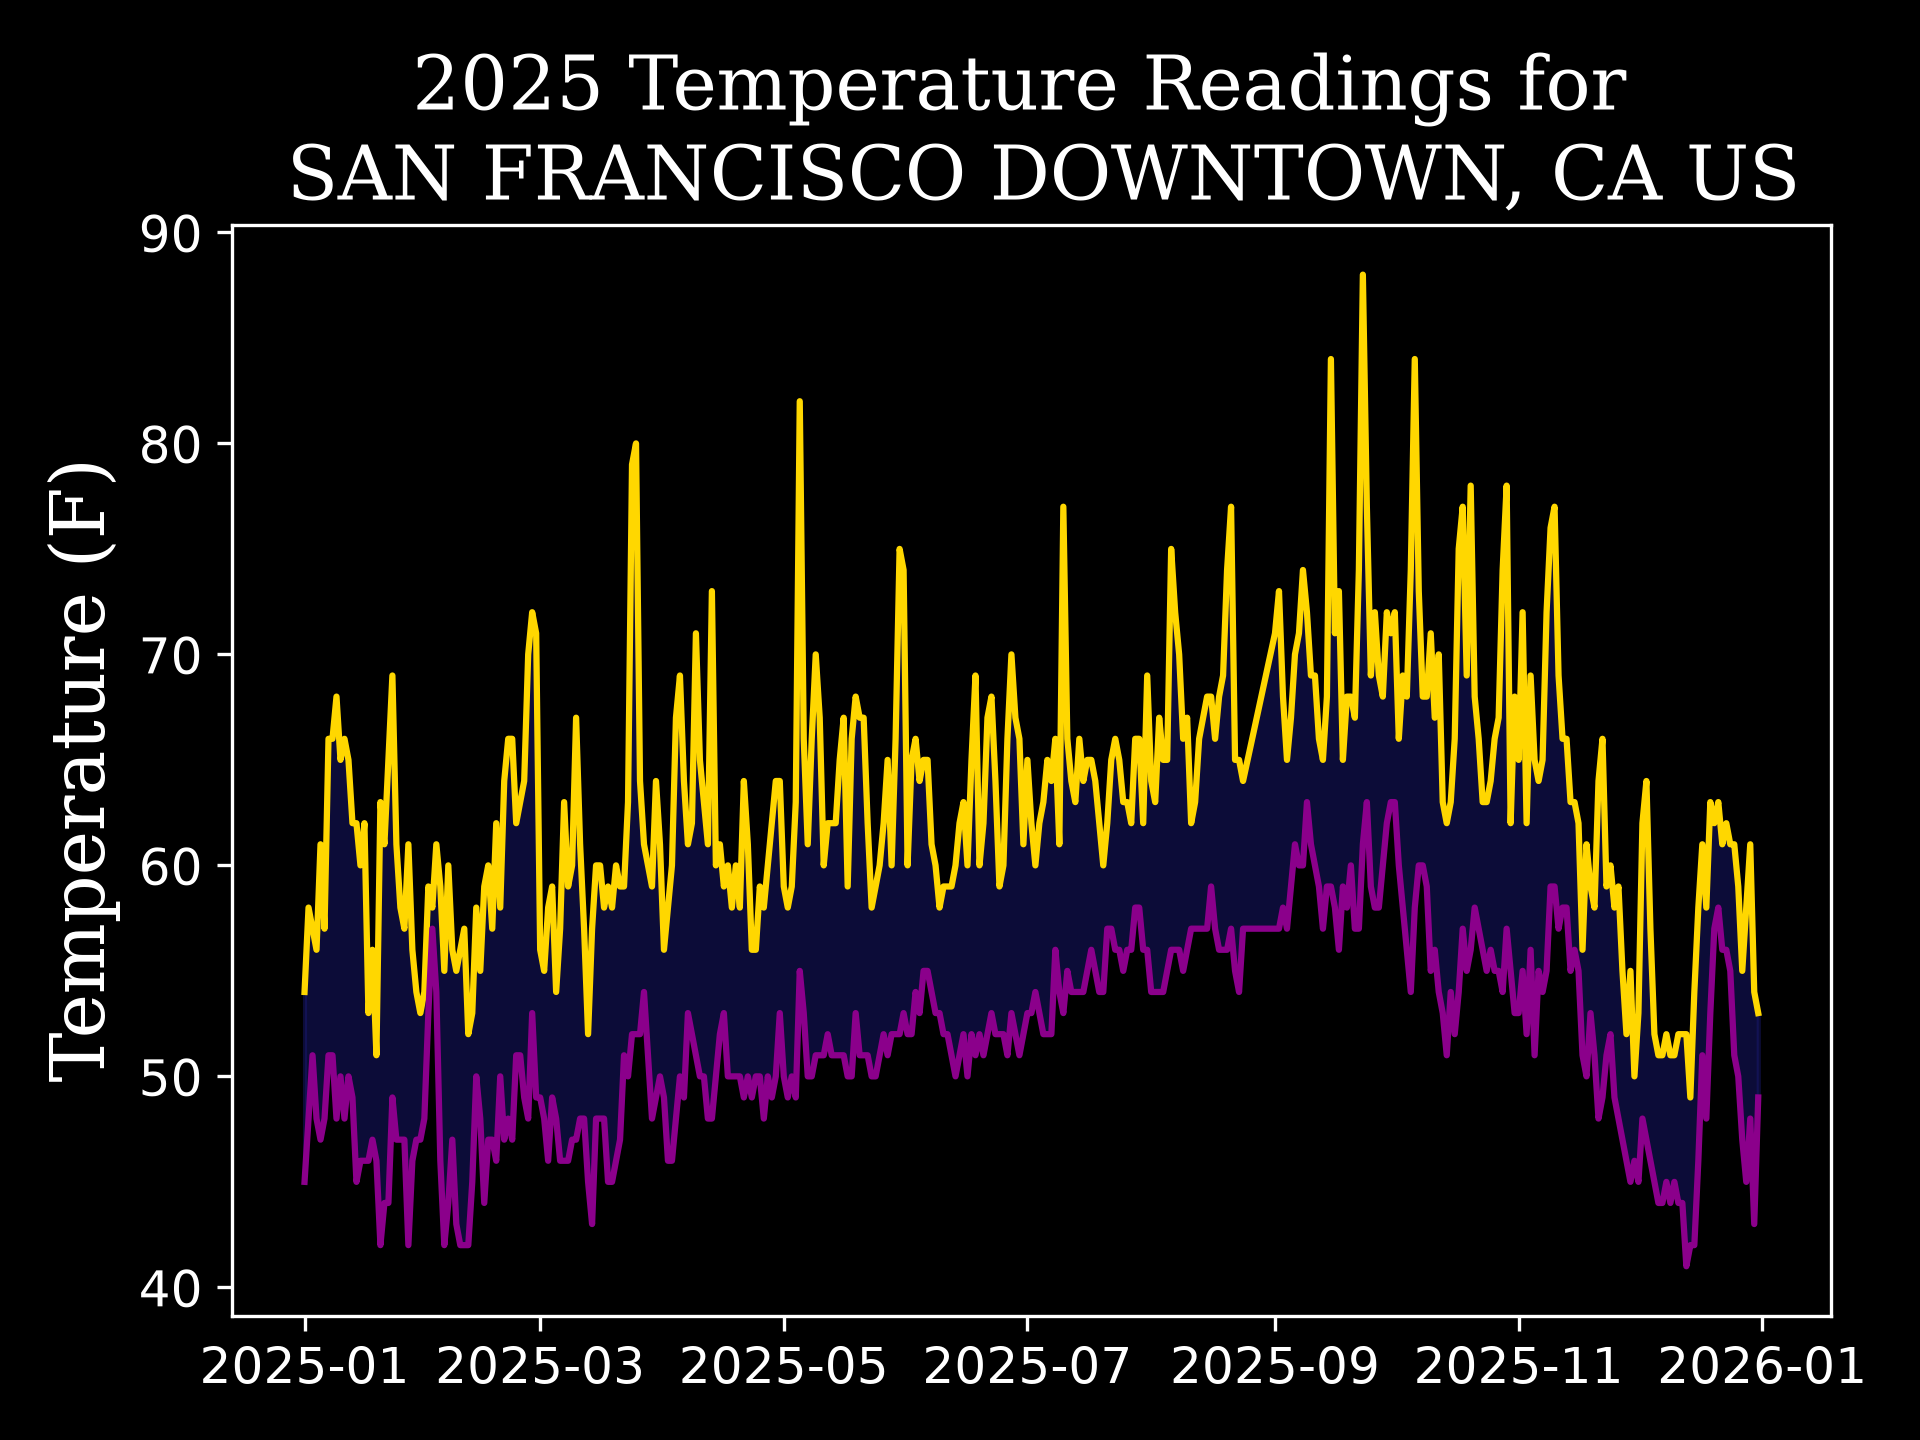
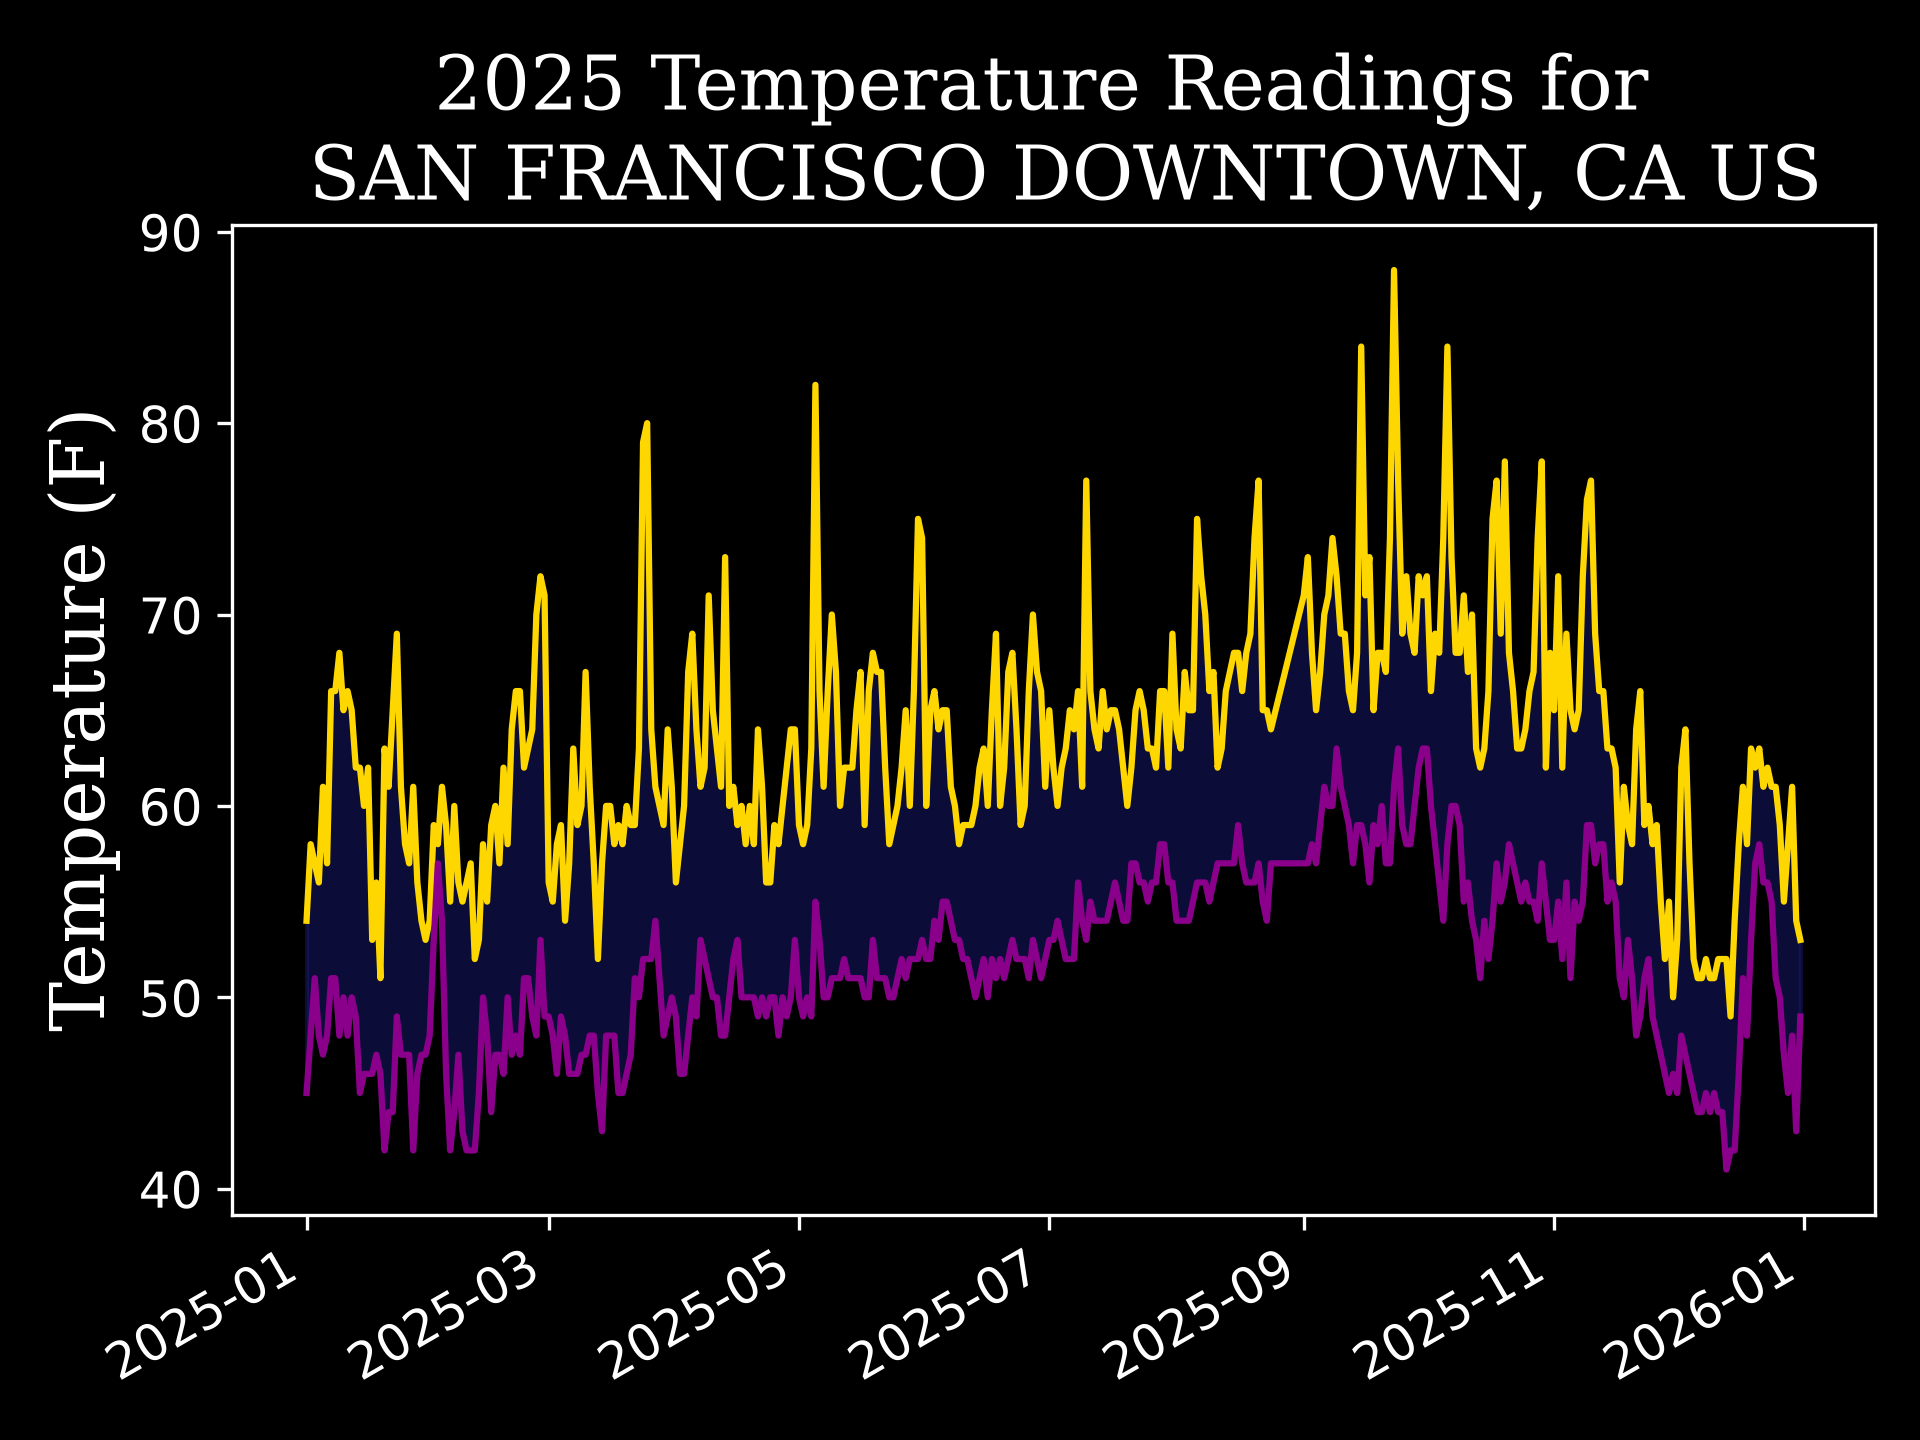
Get indices of items in a list

diff --git a/experimental.py b/experimental.py
@@ -1,0 +1,7 @@
+header = ['STATION', 'NAME', 'LATITUDE', 'LONGITUDE', 'ELEVATION',
+          'DATE', 'PRCP', 'SNWD', 'TMAX', 'TMIN', 'TOBS', 'WT01']
+print(header.index('TMAX')) # First occurrence
+
+nums = [12, 25, 12, 44, 33, 12, 56]
+indices = [i for i, x in enumerate(nums) if x==12] # All instances
+print(indices)

diff --git a/downloading_data/exercises/san_francisco_highs_lows.py b/downloading_data/exercises/san_francisco_highs_lows.py
@@ -11,6 +11,8 @@ lines = path.read_text().splitlines()
 reader = csv.reader(lines)
 header_row = next(reader)
 
+print(header_row)
+
 for i, column_header in enumerate(header_row):
     print(i, column_header)
 
@@ -36,8 +38,10 @@ ax.set_title(f'2025 Temperature Readings for \n {place}',
              fontdict={'family':'Serif', 'size':18,})
 ax.set_ylabel('Temperature (F)', fontdict={'family':'Serif', 'fontsize':18})
 ax.tick_params(labelsize=12)
+# ax.set_ylim(0, 130) # For comparison
+
+fig.autofmt_xdate()
 
 plt.tight_layout()
-
 plt.savefig('san_francisco_temperatures_2025.png', dpi=300,) # transparent=True
 plt.show()